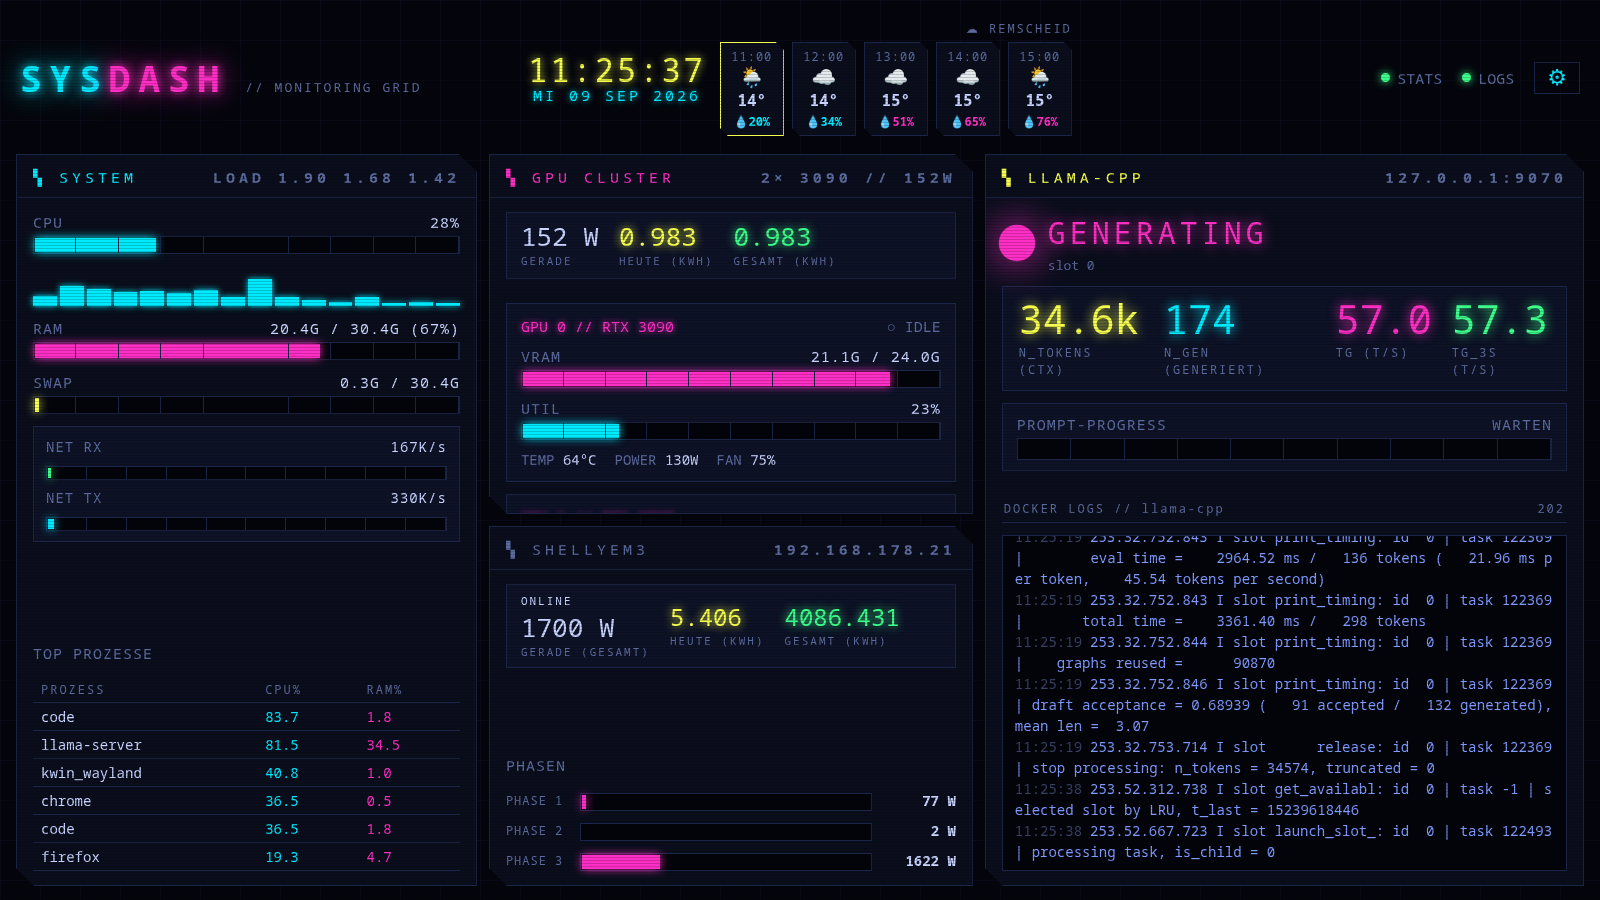
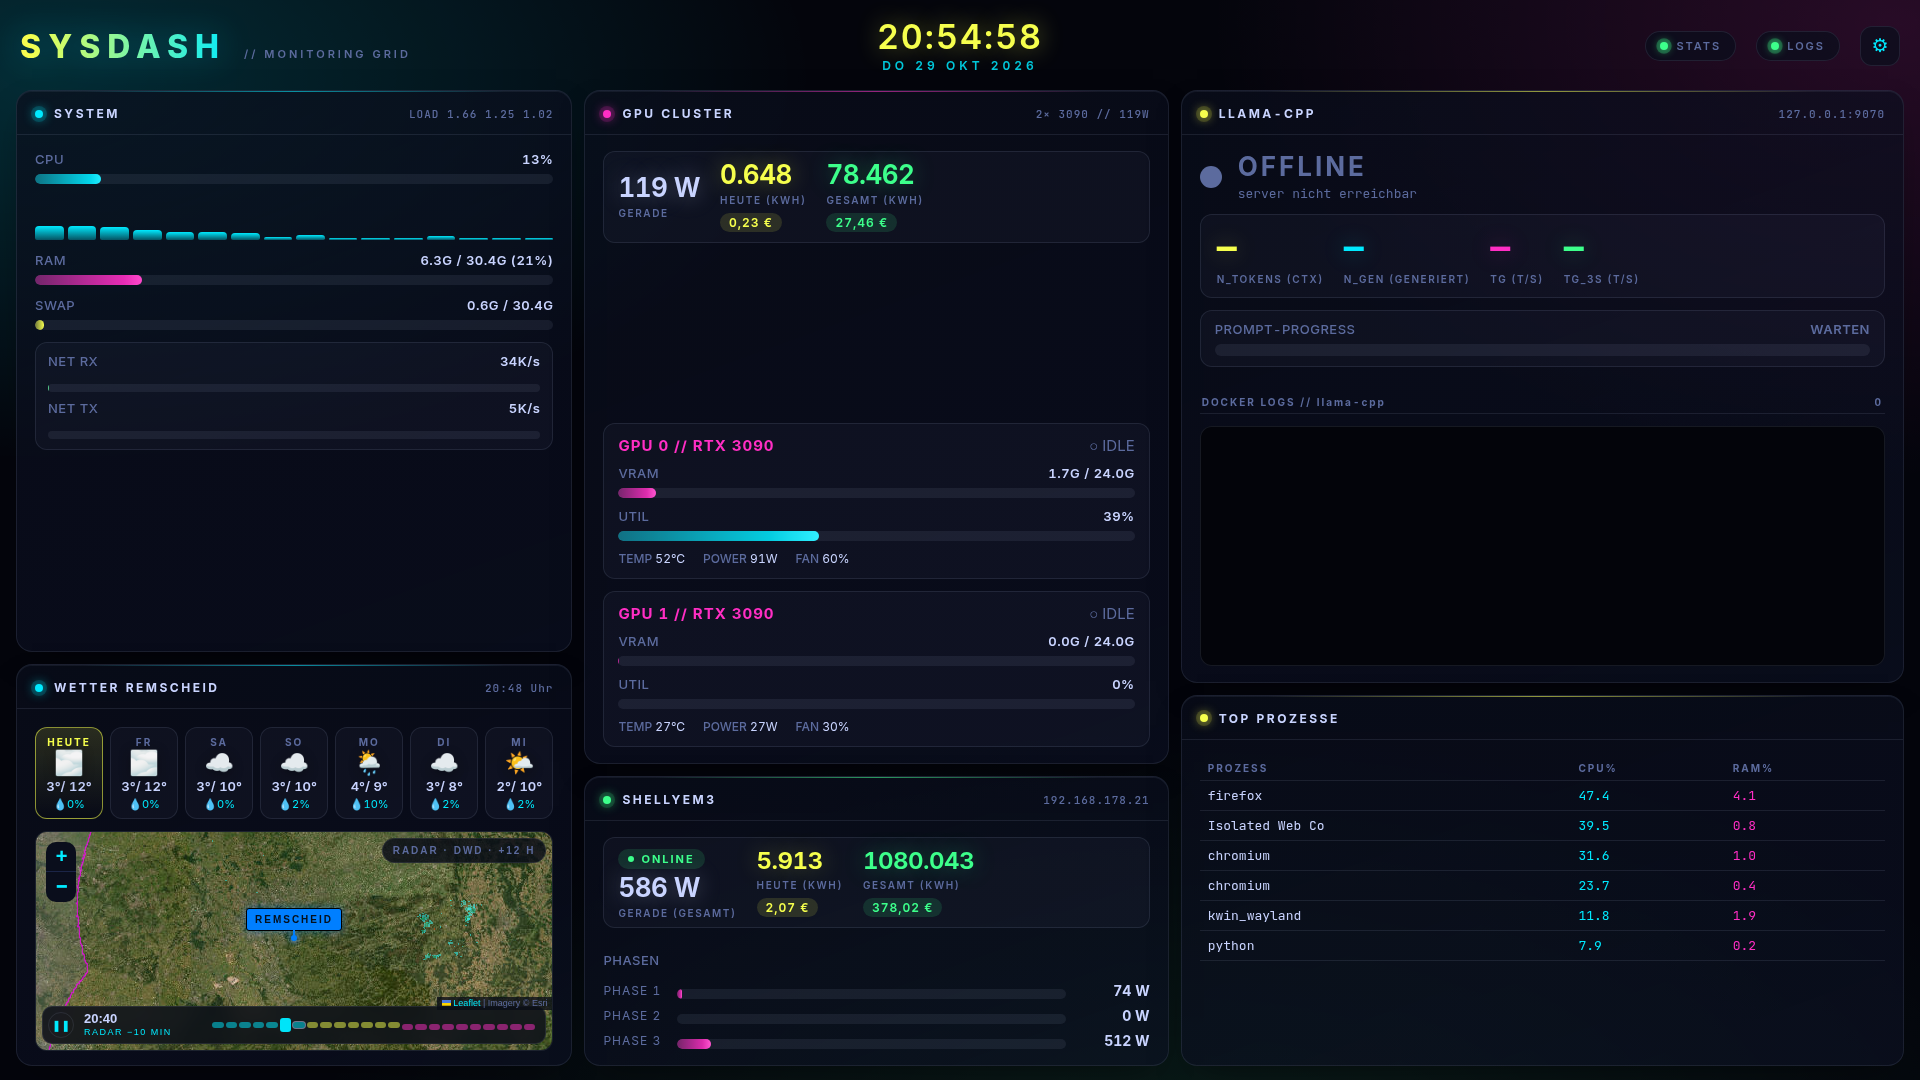
README: aktuelle Bilder (Modern-Stil, Radar-Zeitraffer) + Features/Design ergänzt

diff --git a/README.md b/README.md
@@ -1,11 +1,12 @@
 # sysdash
 
-Cyberpunk-System-Dashboard für den 2. Bildschirm: CPU/RAM/GPU/Netz in Echtzeit,
-LLM-Telemetrie, Stromverbrauch (GPU + ShellyEM3) und Wetter.
+System-Dashboard für den 2. Bildschirm: CPU/RAM/GPU/Netz in Echtzeit,
+LLM-Telemetrie, Stromverbrauch (GPU + ShellyEM3), Wetter und Regenradar
+mit Zeitraffer bis +12 h.
 
-| GIF-Demo | Screenshot |
-|:---:|:---:|
-| ![Demo-Animation](assets/demo.gif) | ![Screenshot](assets/screenshot.png) |
+![Demo-Animation](assets/demo.gif)
+
+![Screenshot](assets/screenshot.png)
 
 ## Features
 
@@ -14,13 +15,37 @@ LLM-Telemetrie, Stromverbrauch (GPU + ShellyEM3) und Wetter.
     Netzwerk-Raten, GPU-Energie, ShellyEM3, Wetter (~2 Hz)
   - `/ws/logs` — `journalctl -u llama-cpp -f`, zeilenweise
 - **Energie-Integration** — GPU-Leistung wird in kWh integriert und in
-  `energy.json` persistiert (pro Tag + gesamt)
+  `energy.json` persistiert (pro Tag + gesamt), Kosten mit 0,35 €/kWh
 - **ShellyEM3** — absolute Zählerwerte vom Stromkasten, Tages-Delta wird
-  lokal gehalten und übersteht Neustarts (`shelly.json`)
+  lokal gehalten und übersteht Neustarts (`shelly.json`), Leistung je Phase
 - **LLM-Monitoring** — Slots, TPS, Decoded, Modell aus der llama.cpp-Server-API
-  (`http://127.0.0.1:9070/slots`)
-- **Wetter** — Open-Meteo (Remscheid), stündlich neu geladen
-- **Frontend** — ein einziges `static/index.html` mit Cyberpunk-Theme
+  (`http://127.0.0.1:9070/slots`), Prompt-Progress aus den Logs
+- **Wetter** — 7-Tage-Vorschau von Open-Meteo (Remscheid), stündlich neu geladen
+- **Regenradar-Zeitraffer** (DWD, keylos) als Endlosschleife mit Play/Pause
+  und klickbarer Zeitleiste:
+  - −1 h bis jetzt: gemessenes Radar (`Radar_rv_product_1x1km_ger`, 10 min)
+  - bis +1:45 h: DWD-Nowcast (15 min)
+  - +2 h bis +12 h: Modell ICON-EU (`Icon-eu_reg00625_fd_sl_TOTPREC01H`,
+    stündlich), im selben Farbstil wie das Radar
+- **Radar-Proxy** `/api/radar` — der Server holt jedes Bild selbst von
+  `maps.dwd.de`: feste Zeit pro Bild (ein DWD-Backend liefert teils Daten vom
+  Vortag → wird erkannt und neu versucht), 12 s Timeout, max. 3 parallele
+  Requests, In-Memory-Cache
+- **Frontend** — ein einziges `static/index.html`, Schriften lokal
+  (Inter, JetBrains Mono, DSEG7, VT323, Orbitron)
+
+## Design
+
+Über ⚙ oben rechts (Einstellungen bleiben im Browser gespeichert):
+
+- **Seitenstile** — *Modern* (Standard: Glas-Panels, animierter
+  Aurora-Hintergrund, Balken mit Verlauf, weich zählende Zahlen), *Cyberpunk*
+  (Neon, Scanlines), *Flat 2D*, *3D Depth*, *btop-Dense*
+- **Themes** — Cyberpunk, Terminal-Grün, Dracula, Tokyo Night, Aurora, Paper,
+  Solarized Dark/Light oder eigene Farben
+- **Schrift, Diagramme (Balken/Sparklines), Animation, Glow, Panel-Ecken** —
+  „Ohne“ bei Animation schaltet alle Animationen ab; die System-Einstellung
+  „weniger Bewegung“ wird ebenfalls respektiert
 
 ## Installation
 
@@ -50,11 +75,14 @@ Zusätzlich erwartet der Server:
 - `nvidia-smi` im PATH (für GPU-Daten)
 - systemd-Service `llama-cpp` (für die Logs)
 - llama.cpp-Server mit `/slots`-Endpoint auf Port 9070
+- Internetzugang für Wetter (Open-Meteo), Radar (DWD) und Kartenbasis (Esri)
 
 ## Dateien
 
-- `main.py` — Server (FastAPI + WebSocket)
+- `main.py` — Server (FastAPI + WebSocket + Radar-Proxy)
 - `static/index.html` — Dashboard-Frontend
+- `static/fonts/`, `static/leaflet/` — lokale Schriften und Leaflet (Karte)
+- `assets/` — Screenshot und Demo-GIF für dieses README
 - `dashboard.sh` — Start-Wrapper
 - `check_display.py` — Hilfskript (Display-Check)
 - `energy.json` / `shelly.json` — Laufzeit-Zählerstand (werden zur Laufzeit erstellt, nicht committet)
